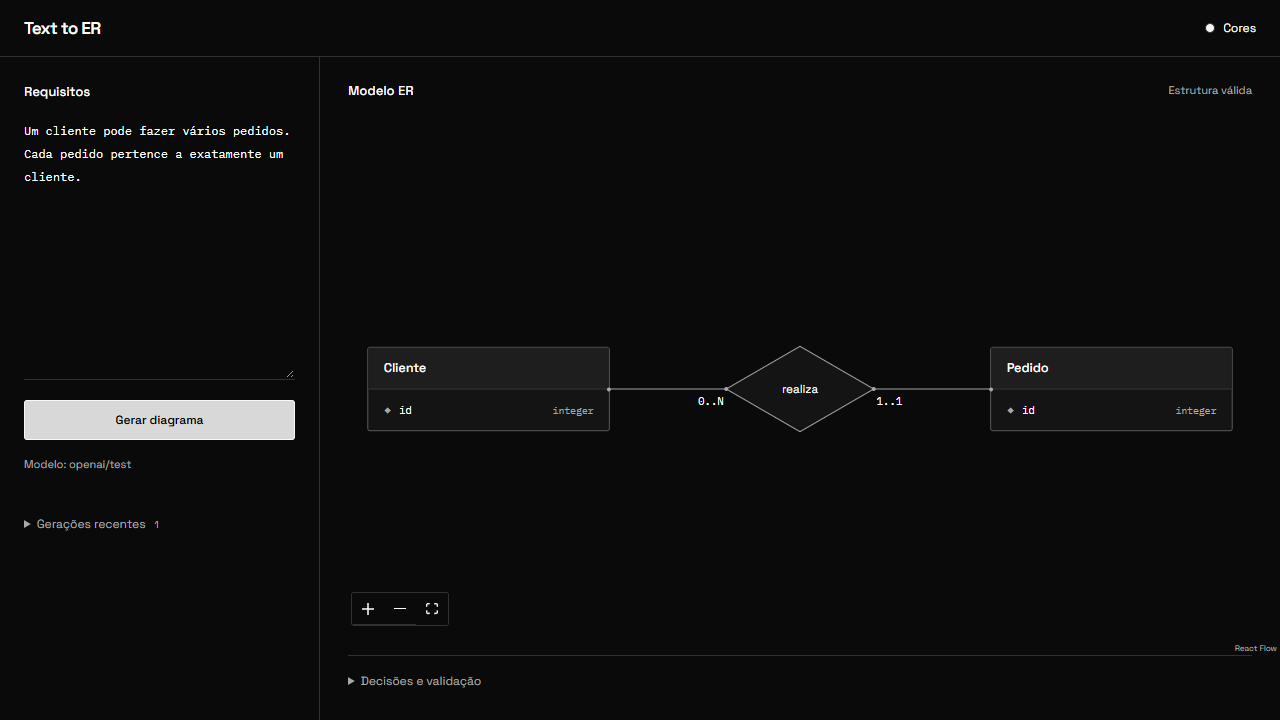
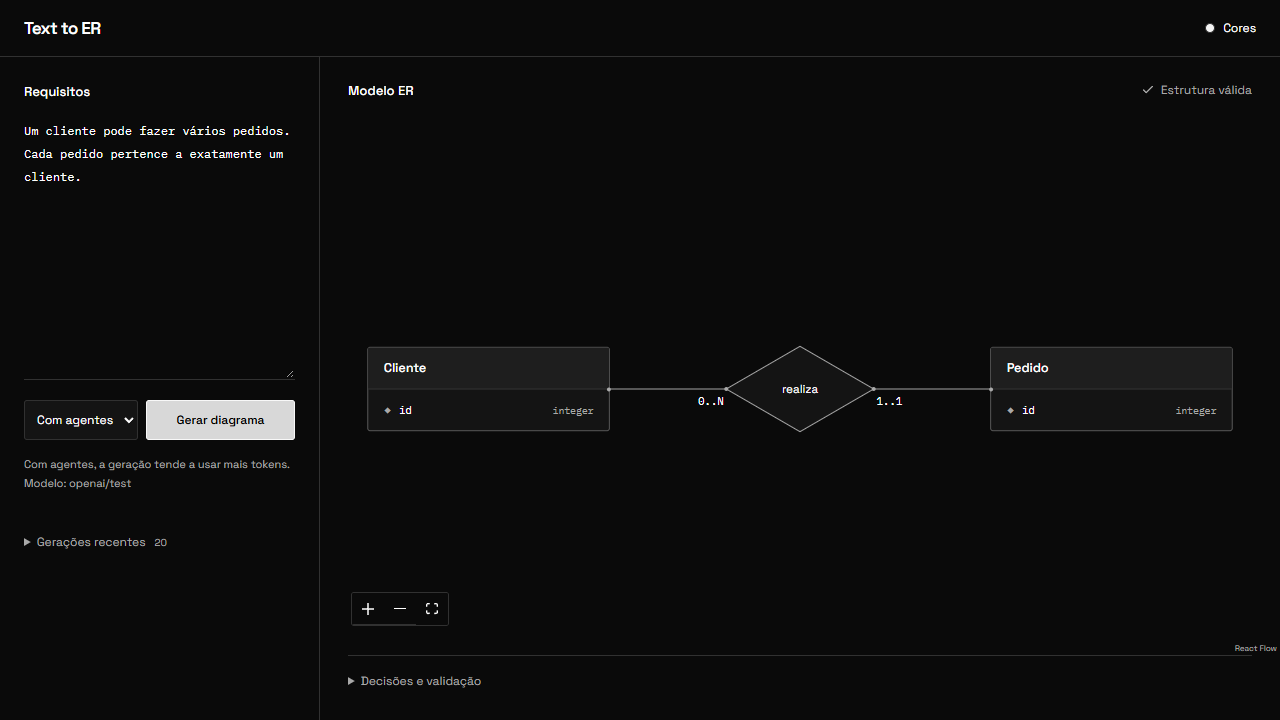
feat: add web generation selector and validation status

Changed region(s): [[0.0, 0.6417, 0.2188, 0.7639], [0.0, 0.55, 0.2188, 0.6111], [0.9062, 0.1222, 0.9688, 0.1528]]

diff --git a/frontend/src/main.tsx b/frontend/src/main.tsx
@@ -4,10 +4,11 @@ import "@xyflow/react/dist/style.css";
 import "./style.css";
 import { DiagramView } from "./DiagramView";
 import { AppearanceExplorer, useAppearance } from "./appearance";
-import type { Generation, Health } from "./types";
+import type { Generation, GenerationFlow, Health } from "./types";
 
 const exampleRequirements =
   "Um cliente pode fazer vários pedidos. Cada pedido pertence a exatamente um cliente.";
+const flowLabels = { A: "Direta", B: "Com agentes" };
 async function api<T>(path: string, options?: RequestInit): Promise<T> {
   const response = await fetch(`/api${path}`, options);
   if (!response.ok) {
@@ -35,6 +36,7 @@ async function api<T>(path: string, options?: RequestInit): Promise<T> {
 function App() {
   const { appearance, setAppearance, style } = useAppearance();
   const [requirements, setRequirements] = useState(exampleRequirements);
+  const [flow, setFlow] = useState<GenerationFlow>("A");
   const [result, setResult] = useState<Generation | null>(null);
   const [history, setHistory] = useState<Generation[]>([]);
   const [busy, setBusy] = useState(false);
@@ -64,7 +66,7 @@ function App() {
       const next = await api<Generation>("/generations", {
         method: "POST",
         headers: { "Content-Type": "application/json" },
-        body: JSON.stringify({ requirements }),
+        body: JSON.stringify({ requirements, flow }),
       });
       setResult(next);
       setHistory((current) => [next, ...current].slice(0, 20));
@@ -101,14 +103,33 @@ function App() {
             onChange={(e) => setRequirements(e.target.value)}
             rows={9}
           />
-          <button
-            className="primary"
-            disabled={busy || requirements.trim().length < 10}
-            onClick={generate}
-          >
-            {busy ? "Gerando modelo…" : "Gerar diagrama"}
-          </button>
-          {health?.model && <p className="model-note">Modelo: {health.model}</p>}
+          <div className="generation-actions">
+            <select
+              aria-label="Modo de geração"
+              aria-describedby={flow === "B" ? "agent-token-note" : undefined}
+              value={flow}
+              disabled={busy}
+              onChange={(e) => setFlow(e.target.value as GenerationFlow)}
+            >
+              <option value="A">{flowLabels.A}</option>
+              <option value="B">{flowLabels.B}</option>
+            </select>
+            <button
+              className="primary"
+              disabled={busy || requirements.trim().length < 10}
+              onClick={generate}
+            >
+              {busy ? "Gerando modelo…" : "Gerar diagrama"}
+            </button>
+          </div>
+          {(flow === "B" || health?.model) && (
+            <p className="model-note">
+              {flow === "B" && (
+                <span id="agent-token-note">Com agentes, a geração tende a usar mais tokens.</span>
+              )}
+              {health?.model && <span>Modelo: {health.model}</span>}
+            </p>
+          )}
           {error && (
             <p role="alert" className="error">
               {error}
@@ -150,8 +171,15 @@ function App() {
             <h2 id="model-heading">Modelo ER</h2>
             {result && (
               <span
-                className={`status ${result.validation.valid ? "" : "invalid"}`}
+                className={`validation-status ${result.validation.valid ? "" : "invalid"}`}
               >
+                <svg viewBox="0 0 16 16" aria-hidden="true">
+                  {result.validation.valid ? (
+                    <path d="m3 8 3 3 7-7" />
+                  ) : (
+                    <path d="M8 2 15 14H1L8 2Zm0 4v3m0 2v.5" />
+                  )}
+                </svg>
                 {result.validation.valid
                   ? "Estrutura válida"
                   : "Requer correções"}
@@ -213,6 +241,8 @@ function App() {
                     <pre>{JSON.stringify(result.schema_model, null, 2)}</pre>
                   </details>
                   <p className="provider-info">
+                    {result.flow === "B" && `${flowLabels.B} / `}
+                    {result.flow === "A" && result.call_count === 1 && `${flowLabels.A} / `}
                     {result.provider}{result.model ? ` / ${result.model}` : ""} / {result.total_latency_ms ?? result.latency_ms} ms
                     {result.input_tokens != null && ` / ${result.input_tokens} tokens de entrada`}
                     {result.output_tokens != null && ` / ${result.output_tokens} tokens de saída`}

diff --git a/frontend/e2e/llm-mode.spec.ts b/frontend/e2e/llm-mode.spec.ts
@@ -23,6 +23,7 @@ test("shows the configured model and safe provider errors", async ({ page }) => 
 
 test("presents model and usage alongside the validated diagram", async ({ page }) => {
   await page.goto("/");
+  await expect(page.getByRole("combobox", { name: "Modo de geração" })).toHaveValue("A");
   await page.getByRole("button", { name: "Gerar diagrama" }).click();
   await expect(page.getByText("Estrutura válida")).toBeVisible();
   await expect(page.locator(".entity-title")).toHaveCount(2);
@@ -30,4 +31,25 @@ test("presents model and usage alongside the validated diagram", async ({ page }
   await expect(page.locator(".provider-info")).toContainText("openai/test");
   await expect(page.locator(".provider-info")).toContainText("120 tokens de entrada");
   await expect(page.locator(".provider-info")).toContainText("80 tokens de saída");
+});
+
+test("selects agent review and shows combined token usage", async ({ page }) => {
+  await page.goto("/");
+  await page.getByRole("combobox", { name: "Modo de geração" }).selectOption("B");
+  await expect(page.getByText("Com agentes, a geração tende a usar mais tokens.")).toBeVisible();
+  const [response] = await Promise.all([
+    page.waitForResponse((r) =>
+      r.url().endsWith("/api/generations") && r.request().method() === "POST",
+    ),
+    page.getByRole("button", { name: "Gerar diagrama" }).click(),
+  ]);
+  expect(response.status()).toBe(201);
+  expect(await response.json()).toMatchObject({ flow: "B", call_count: 4 });
+  await expect(page.getByText("Estrutura válida")).toBeVisible();
+  await expect(page.locator(".entity-title")).toHaveCount(2);
+  await page.screenshot({ path: "test-results/agent-generation.png", fullPage: true });
+  await page.getByText("Decisões e validação").click();
+  await expect(page.locator(".provider-info")).toContainText("Com agentes");
+  await expect(page.locator(".provider-info")).toContainText("480 tokens de entrada");
+  await expect(page.locator(".provider-info")).toContainText("320 tokens de saída");
 });

diff --git a/frontend/src/style.css b/frontend/src/style.css
@@ -14,7 +14,8 @@ body {
 }
 button,
 textarea,
-input {
+input,
+select {
   font: inherit;
 }
 button,
@@ -31,7 +32,8 @@ button:disabled {
 a:focus-visible,
 button:focus-visible,
 summary:focus-visible,
-input:focus-visible {
+input:focus-visible,
+select:focus-visible {
   outline: 2px solid var(--fg);
   outline-offset: 3px;
 }
@@ -142,8 +144,19 @@ p {
   font-weight: 500;
   padding: 11px 16px;
 }
-.editor-pane > .primary {
-  width: 100%;
+.generation-actions {
+  display: grid;
+  grid-template-columns: auto minmax(0, 1fr);
+  gap: 8px;
+}
+.generation-actions select {
+  min-width: 0;
+  padding: 0 8px;
+  border: 1px solid var(--rule);
+  border-radius: 3px;
+  color: var(--fg);
+  background: var(--surface);
+  font-size: 12px;
 }
 .primary:hover:not(:disabled) {
   background: color-mix(in srgb, var(--accent) 88%, var(--on-accent));
@@ -153,6 +166,9 @@ p {
   line-height: 1.7;
   color: var(--muted);
   margin-top: 15px;
+}
+.model-note span {
+  display: block;
 }
 .history {
   margin-top: 32px;
@@ -220,12 +236,25 @@ summary:hover {
   gap: 16px;
   padding: 0 28px;
 }
-.status {
+.validation-status {
+  display: inline-flex;
+  align-items: center;
+  gap: 6px;
   color: var(--muted);
-  font-size: 11px;
+  font-size: 12px;
 }
-.status.invalid {
+.validation-status.invalid {
   color: var(--fg);
+}
+.validation-status svg {
+  flex: 0 0 14px;
+  width: 14px;
+  height: 14px;
+  fill: none;
+  stroke: currentColor;
+  stroke-width: 1.5;
+  stroke-linecap: round;
+  stroke-linejoin: round;
 }
 .canvas {
   position: relative;

diff --git a/frontend/src/types.ts b/frontend/src/types.ts
@@ -14,6 +14,7 @@ export type ERSchema = {
   assumptions: string[];
   ambiguities: string[];
 };
+export type GenerationFlow = "A" | "B";
 export type Generation = {
   flow?: string;
   model?: string | null;

diff --git a/backend/tests/e2e_app.py b/backend/tests/e2e_app.py
@@ -1,15 +1,19 @@
 """Browser test entry point with a credential-free provider transport."""
 
 from app.entrypoints.http import create_app
+from app.generations.adapters.agents import AgentGenerator
 from app.llm_provider import LLMGenerator
 from app.settings import Settings
 from tests.support import response
 
 
-def complete(**_):
+def complete(**request):
+    if request["response_format"]["json_schema"]["name"] == "er_review":
+        return response('{"findings":[]}')
     return response()
 
 
+direct = LLMGenerator(Settings(model="openai/test", api_key="test-only"), complete)
 app = create_app(
-    generator=LLMGenerator(Settings(model="openai/test", api_key="test-only"), complete),
+    generator=direct, agent_generator=AgentGenerator(direct),
 )

diff --git a/README.md b/README.md
@@ -28,11 +28,11 @@ python -m uvicorn app.main:app --env-file .env
 ```
 Em outro terminal aberto na raiz, execute `npm --prefix frontend run dev`.
 
-Abra a [aplicação](http://127.0.0.1:5173), edite os requisitos e clique em **Gerar diagrama**. Compare o diagrama e as suposições com o texto original. As chamadas usam a cota do provedor, e o histórico local guarda o texto enviado. A [documentação interativa da API](http://127.0.0.1:8000/docs) também fica disponível.
+Abra a [aplicação](http://127.0.0.1:5173), edite os requisitos e escolha **Direta** ou **Com agentes** antes de clicar em **Gerar diagrama**. Compare o diagrama e as suposições com o texto original. As chamadas usam a cota do provedor, e o histórico local guarda o texto enviado. A [documentação interativa da API](http://127.0.0.1:8000/docs) também fica disponível.
 
 ## Como funciona
 
-1. O FastAPI entrega o requisito ao serviço de geração. O adaptador LiteLLM faz uma chamada e solicita uma saída JSON estruturada.
+1. O FastAPI entrega o requisito ao serviço de geração. **Direta** faz uma chamada ao modelo. **Com agentes** usa um coordenador para rascunhar e finalizar o modelo, com duas revisões em paralelo para coerência e cardinalidade. As quatro chamadas tendem a usar mais tokens.
 2. O Pydantic verifica o formato. Regras em Python conferem identificadores, nomes duplicados e referências entre entidades. Saídas fora do contrato são rejeitadas. Esquemas legíveis com erros de integridade ficam disponíveis no histórico junto com o relatório.
 3. O React Flow renderiza o esquema. O resultado inclui suposições e ambiguidades para revisão humana.
 
